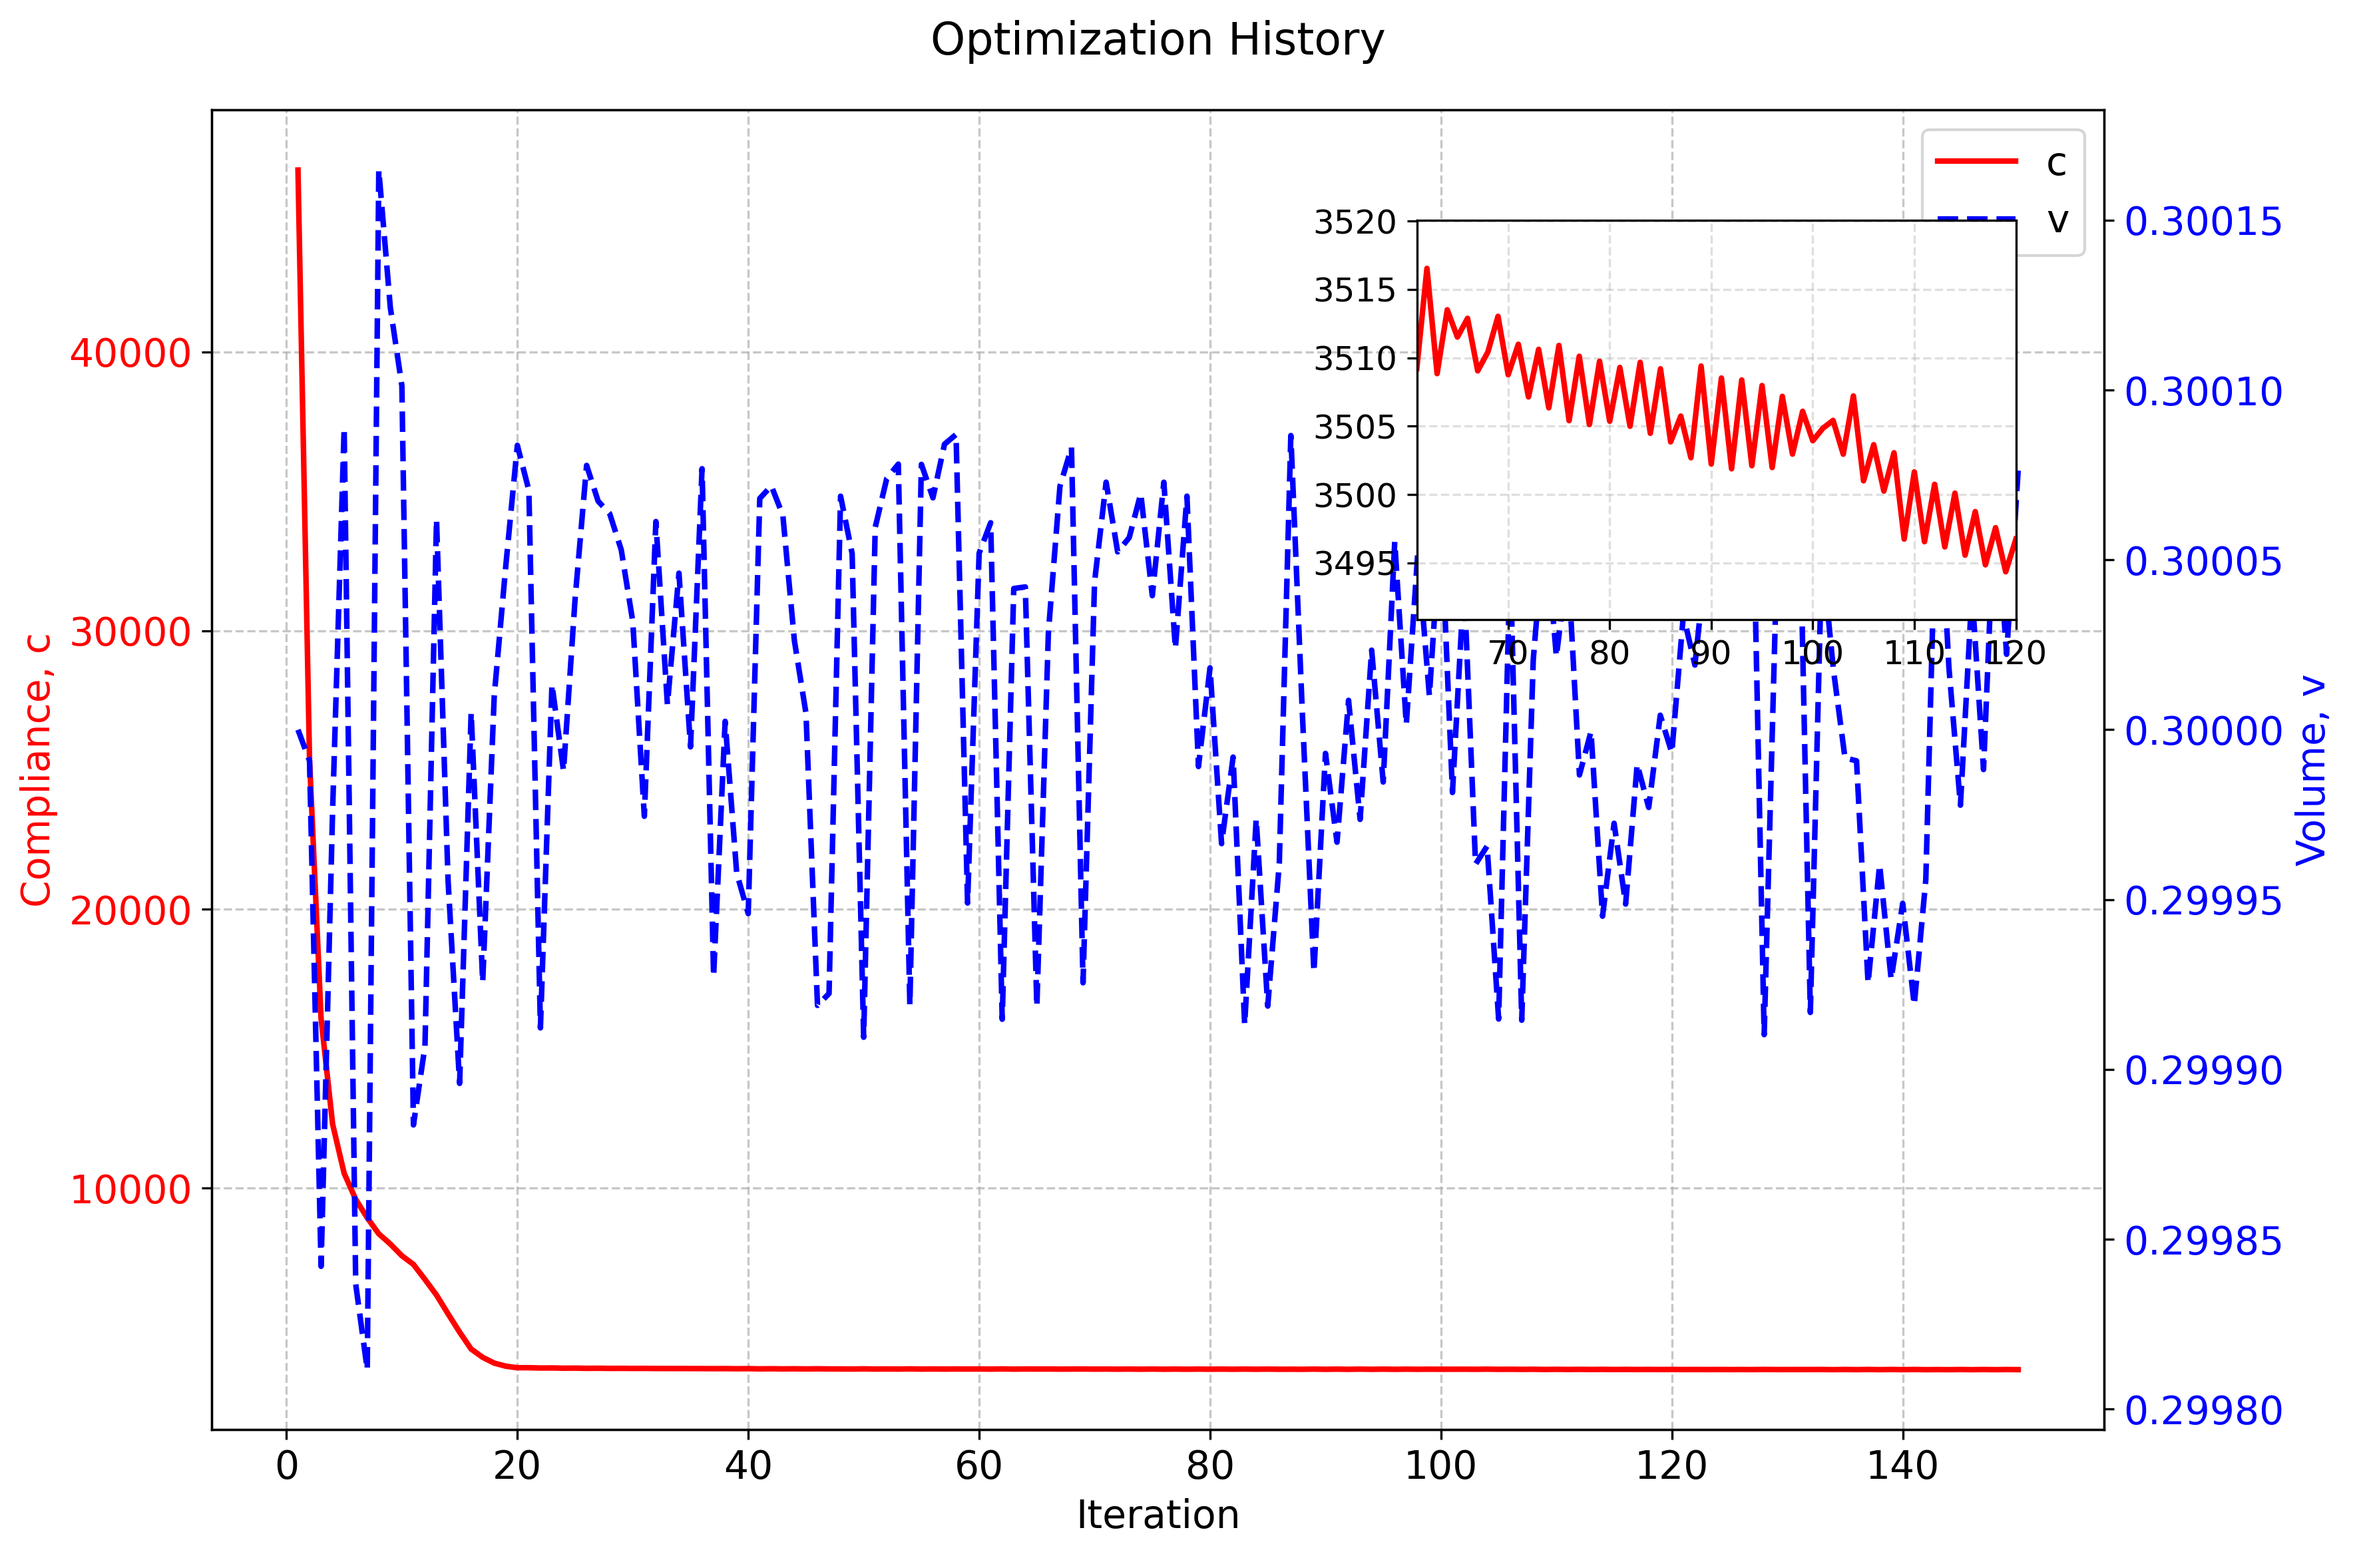
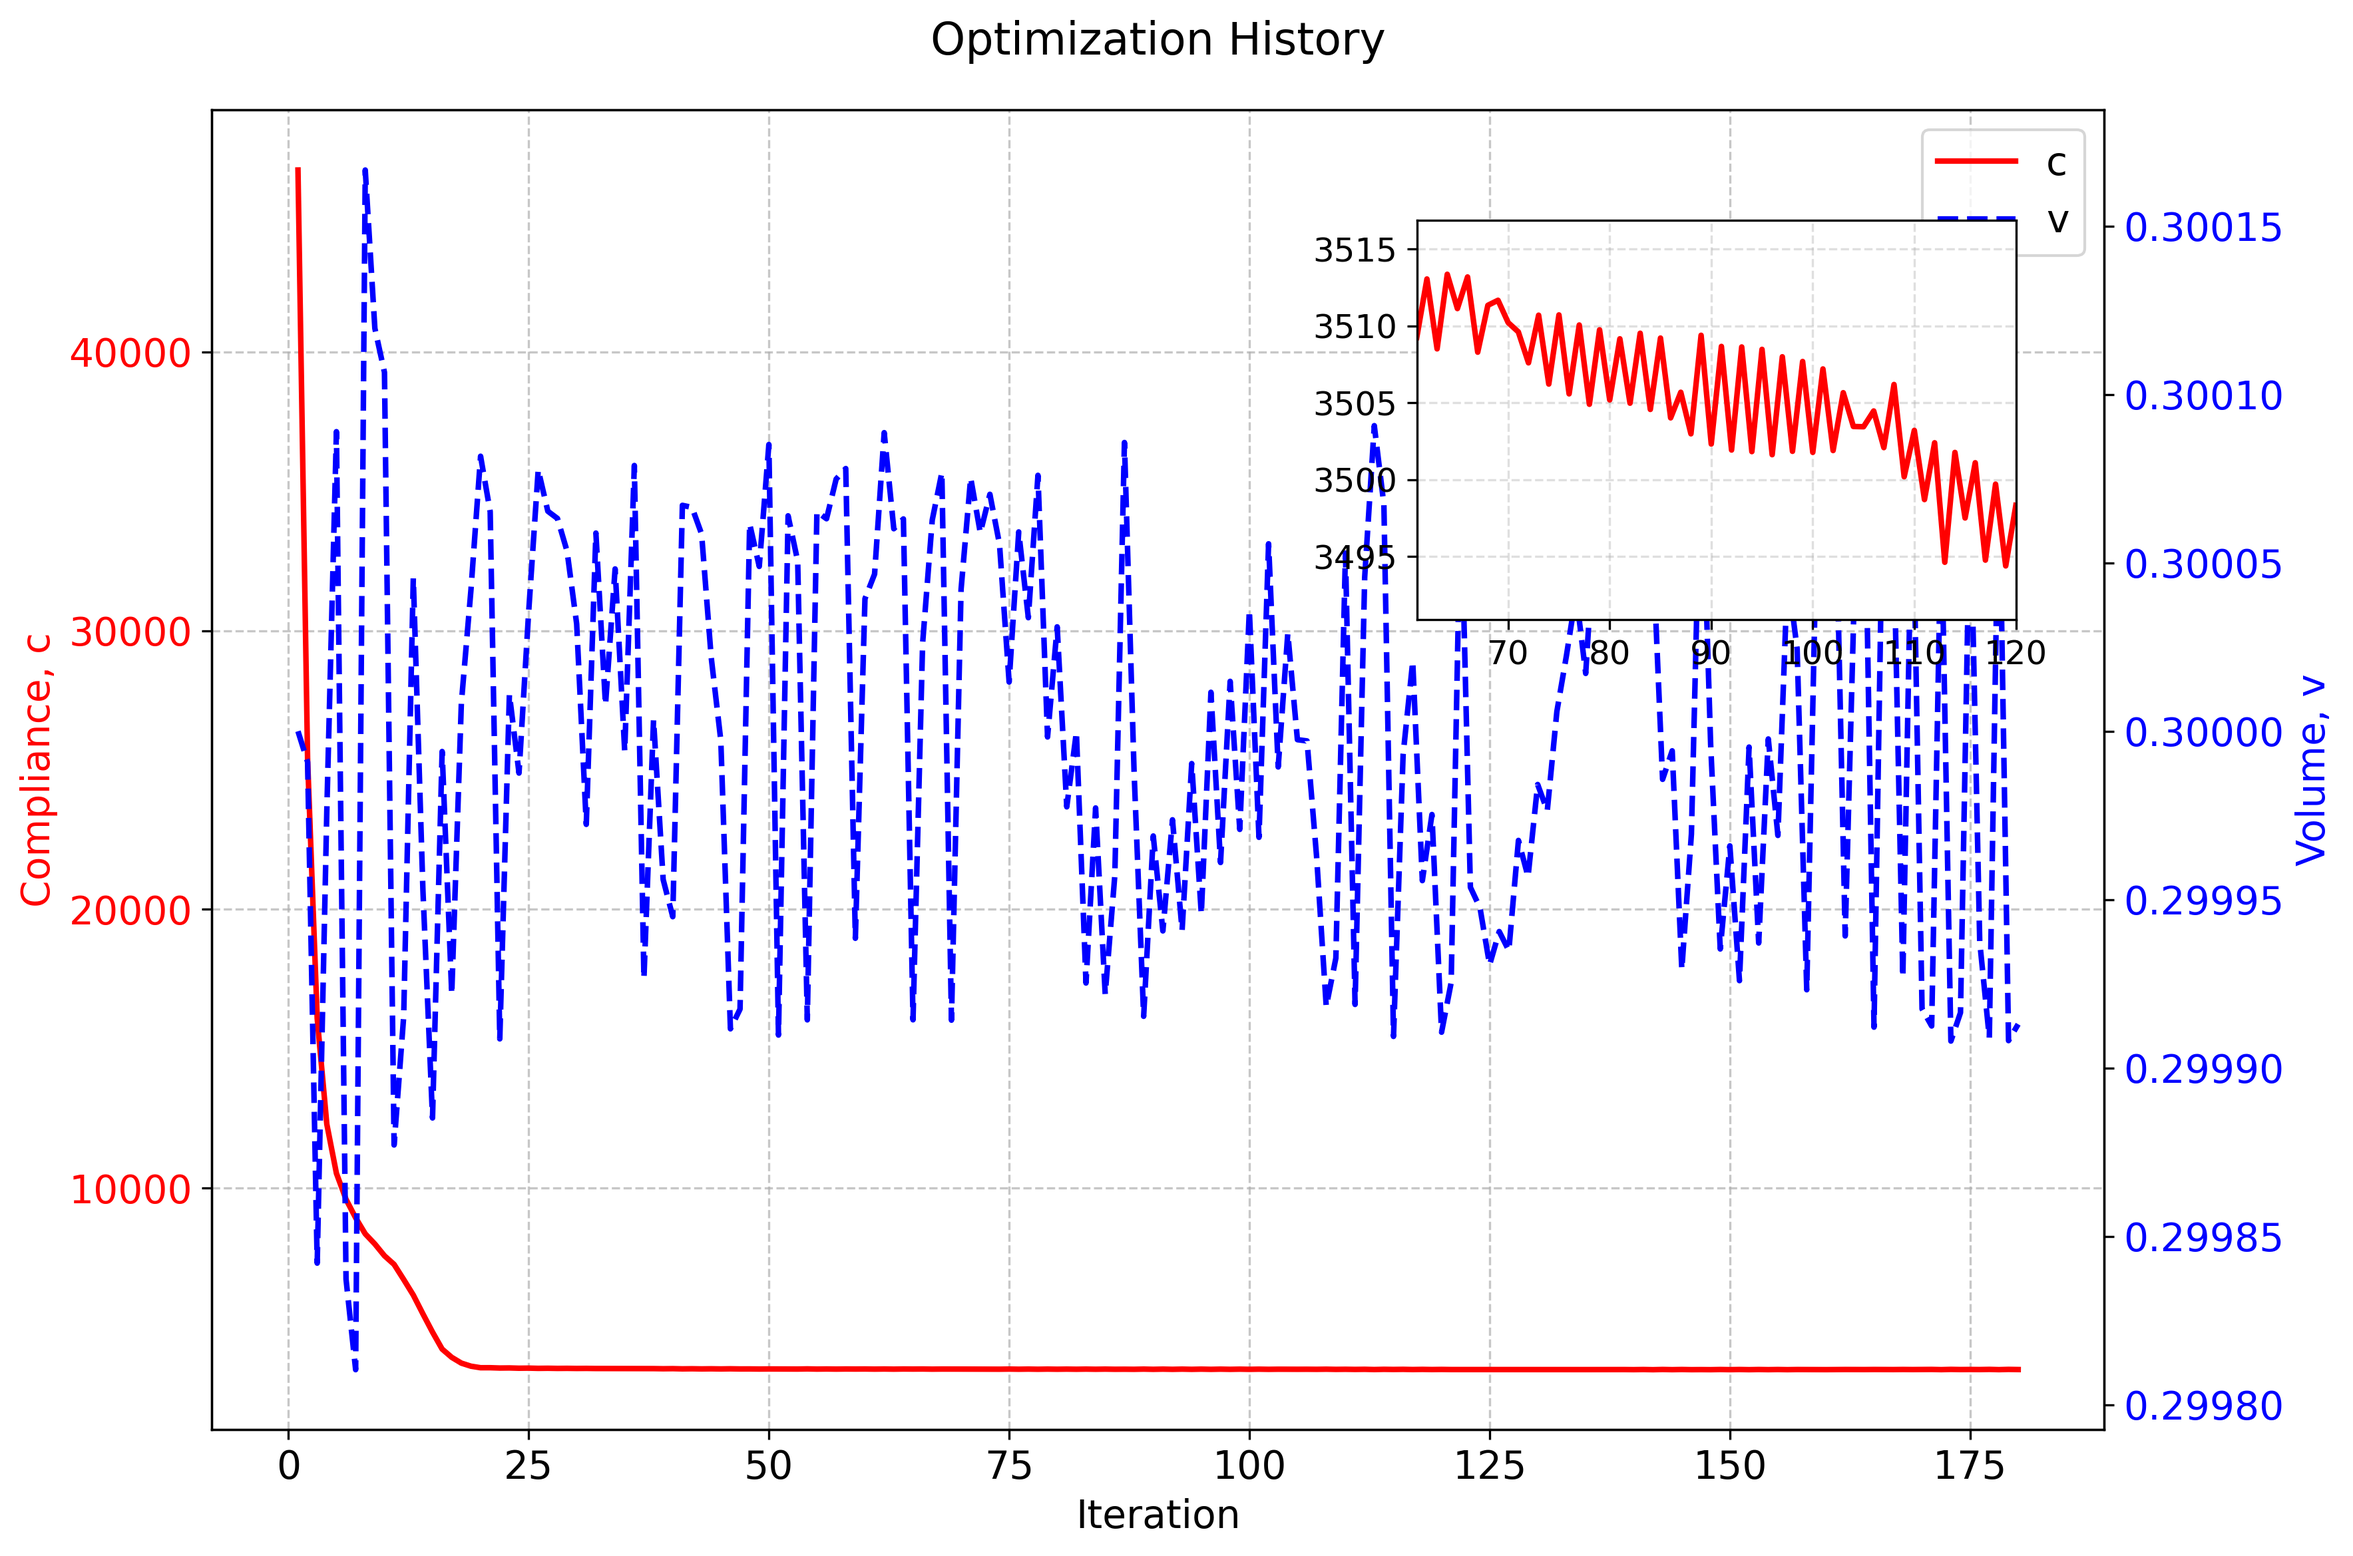
update

diff --git a/soptx/tests/test_cantilever_2d_wsl.py b/soptx/tests/test_cantilever_2d_wsl.py
@@ -1,4 +1,4 @@
-"""测试不同后端、优化器、滤波器、网格下的 3D 悬臂梁"""
+"""测试不同后端、优化器、滤波器、网格下的 2D 悬臂梁"""
 
 from dataclasses import dataclass
 from typing import Literal, Optional, Union, Dict, Any
@@ -7,29 +7,26 @@ from pathlib import Path
 from fealpy.backend import backend_manager as bm
 from fealpy.typing import TensorLike
 from fealpy.decorator import cartesian
-from fealpy.mesh import UniformMesh3d, TetrahedronMesh
+from fealpy.mesh import UniformMesh2d, TriangleMesh
 from fealpy.functionspace import LagrangeFESpace, TensorFunctionSpace
 
 from soptx.material import (
                             DensityBasedMaterialConfig,
                             DensityBasedMaterialInstance,
                         )
-from soptx.pde import Cantilever3dData1
+from soptx.pde import Cantilever2dData1, Cantilever2dData2
 from soptx.solver import (ElasticFEMSolver, AssemblyMethod)
 from soptx.filter import (SensitivityBasicFilter, 
                           DensityBasicFilter, 
                           HeavisideProjectionBasicFilter)
-from soptx.opt import (ComplianceObjective, ComplianceConfig,
-                       VolumeConstraint, VolumeConfig)
-
+from soptx.opt import ComplianceObjective, VolumeConstraint
 from soptx.opt import OCOptimizer, MMAOptimizer, save_optimization_history, plot_optimization_history
-
 @dataclass
 class TestConfig:
     """Configuration for topology optimization test cases."""
     backend: Literal['numpy', 'pytorch', 'jax']
     device: Literal['cpu', 'cuda']
-    pde_type: Literal['cantilever_3d_1']
+    pde_type: Literal['cantilever_2d_1', 'cantilever_2d_2']
 
     elastic_modulus: float
     poisson_ratio: float
@@ -37,20 +34,17 @@ class TestConfig:
 
     domain_length : float
     domain_width : float
-    domain_height : float
 
     load : float
 
     volume_fraction: float
     penalty_factor: float
 
-    mesh_type: Literal['uniform_mesh_3d', 'tetrahedron_mesh']
+    mesh_type: Literal['uniform_mesh_2d', 'triangle_mesh']
     nx: int
     ny: int
-    nz: int
     hx: float
     hy: float
-    hz: float
 
     p: int
     
@@ -78,40 +72,43 @@ def create_base_components(config: TestConfig):
     elif config.backend == 'jax':
         bm.set_backend('jax')
 
-    if config.pde_type == 'cantilever_3d_1':
-        pde = Cantilever3dData1(
+    if config.pde_type == 'cantilever_2d_2':
+        pde = Cantilever2dData2(
                     xmin=0, xmax=config.domain_length,
                     ymin=0, ymax=config.domain_width,
-                    zmin=0, zmax=config.domain_height,
                     T = config.load
                 )
-        if config.mesh_type == 'uniform_mesh_3d':
-            extent = [0, config.nx, 0, config.ny, 0, config.nz]
-            origin = [0.0, 0.0, 0.0]
-            mesh = UniformMesh3d(
-                        extent=extent, h=[config.hx, config.hy, config.hz], origin=origin,
-                        ipoints_ordering='zyx',
-                        device=config.device
+        if config.mesh_type == 'triangle_mesh':
+            mesh = TriangleMesh.from_box(box=pde.domain(), 
+                                        nx=config.nx, ny=config.ny)
+    elif config.pde_type == 'cantilever_2d_1':
+        pde = Cantilever2dData1(
+                    xmin=0, xmax=config.domain_length,
+                    ymin=0, ymax=config.domain_width,
+                    T = config.load
+                )
+        if config.mesh_type == 'uniform_mesh_2d':
+            extent = [0, config.nx, 0, config.ny]
+            origin = [0.0, 0.0]
+            mesh = UniformMesh2d(
+                        extent=extent, h=[config.hx, config.hy], origin=origin,
+                        ipoints_ordering='yx',
+                        device=config.device,
                     )
-        elif config.mesh_type == 'tetrahedron_mesh':
-            mesh = TetrahedronMesh.from_box(box=pde.domain(), 
-                                            nx=config.nx, ny=config.ny, nz=config.nz)
 
     GD = mesh.geo_dimension()
     
-    p = 1
+    p = config.p
     space_C = LagrangeFESpace(mesh=mesh, p=p, ctype='C')
     tensor_space_C = TensorFunctionSpace(space_C, (-1, GD))
-    print(f"CGDOF: {tensor_space_C.number_of_global_dofs()}")
     space_D = LagrangeFESpace(mesh=mesh, p=p-1, ctype='D')
-    print(f"DGDOF: {space_D.number_of_global_dofs()}")
     
     material_config = DensityBasedMaterialConfig(
                             elastic_modulus=config.elastic_modulus,            
                             minimal_modulus=config.minimal_modulus,         
                             poisson_ratio=config.poisson_ratio,            
-                            plane_assumption="3D",
-                            device=config.device,    
+                            plane_assumption="plane_stress", 
+                            device=config.device,      
                             interpolation_model="SIMP",    
                             penalty_factor=config.penalty_factor
                         )
@@ -131,22 +128,21 @@ def create_base_components(config: TestConfig):
     kwargs = bm.context(node)
     @cartesian
     def density_func(x: TensorLike):
-        val = config.volume_fraction * bm.ones(x.shape[0], **kwargs)
-        # val = bm.ones(x.shape[0], **kwargs)
+        # val = config.volume_fraction * bm.ones(x.shape[0], **kwargs)
+        val = bm.ones(x.shape[0], **kwargs)
         return val
     rho = space_D.interpolate(u=density_func)
 
-    obj_config = ComplianceConfig(diff_mode=config.diff_mode)
-    objective = ComplianceObjective(solver=solver, config=obj_config)
-    cons_config = VolumeConfig(diff_mode=config.diff_mode)
+    objective = ComplianceObjective(solver=solver)
     constraint = VolumeConstraint(solver=solver, 
-                                volume_fraction=config.volume_fraction,
-                                config=cons_config)
+                                volume_fraction=config.volume_fraction)
     
     return pde, rho, objective, constraint
 
 def run_basic_filter_test(config: TestConfig) -> Dict[str, Any]:
-    """测试 filter 类不同滤波器的正确性."""
+    """
+    测试 filter 类不同滤波器的正确性.
+    """
     pde, rho, objective, constraint = create_base_components(config)
     mesh = objective.solver.tensor_space.mesh
 
@@ -157,7 +153,7 @@ def run_basic_filter_test(config: TestConfig) -> Dict[str, Any]:
     elif config.filter_type == 'density':
         filter = DensityBasicFilter(mesh=mesh, rmin=config.filter_radius, domain=pde.domain())
     elif config.filter_type == 'heaviside':
-        filter = HeavisideProjectionBasicFilter(mesh=mesh, rmin=config.filter_radius, domain=pde.domain())   
+        filter = HeavisideProjectionBasicFilter(mesh=mesh, rmin=config.filter_radius, domain=pde.domain())  
 
     if config.optimizer_type == 'oc':
         optimizer = OCOptimizer(
@@ -215,49 +211,34 @@ def run_basic_filter_test(config: TestConfig) -> Dict[str, Any]:
         'mesh': mesh
     }
 
+
 if __name__ == "__main__":
     base_dir = '/home/heliang/soptx/soptx/vtu'
-    '''
-    参数来源论文: An efficient 3D topology optimization code written in Matlab
-    '''
-    # backend = 'numpy'
-    backend = 'pytorch'
-    # backend = 'jax'
-    # device = 'cpu'
-    device = 'cuda'
-    pde_type = 'cantilever_3d_1'
-    # mesh_type = 'tetrahedron_mesh'
-    mesh_type = 'uniform_mesh_3d'
+    # 参数来源论文: Efficient topology optimization in MATLAB using 88 lines of code
+    backend = 'numpy'
+    device = 'cpu'
+    pde_type = 'cantilever_2d_1'
     optimizer_type = 'oc'
     filter_type = 'sensitivity'
-    # nx, ny, nz = 60, 20, 4
-    # filter_radius = 1.5
-    nx, ny, nz = 120, 40, 8
-    filter_radius = 3.0
-    config_basic_filter = TestConfig(
-        backend=backend,
-        device=device,
-        pde_type=pde_type,
-        elastic_modulus=1, poisson_ratio=0.3, minimal_modulus=1e-9,
-        domain_length=nx, domain_width=ny, domain_height=nz,
-        load=-1,
-        volume_fraction=0.3,
-        penalty_factor=3.0,
-        mesh_type=mesh_type, nx=nx, ny=ny, nz=nz, hx=1, hy=1, hz=1,
-        p = 1,
-        assembly_method=AssemblyMethod.FAST,
-        # assembly_method=AssemblyMethod.STANDARD,
-        # assembly_method=AssemblyMethod.SYMBOLIC,
-        # solver_type='direct', solver_params={'solver_type': 'mumps'},
-        # solver_type='direct', solver_params={'solver_type': 'cupy'},
-        # solver_type='direct', solver_params={'solver_type': 'scipy'},
-        solver_type='cg', solver_params={'maxiter': 5000, 'atol': 1e-12, 'rtol': 1e-12},
-        diff_mode='manual',
-        # diff_mode='auto',
-        optimizer_type=optimizer_type, max_iterations=180, tolerance=0.01,
-        filter_type=filter_type, filter_radius=filter_radius,
-        save_dir=f'{base_dir}/{device}_{backend}_{pde_type}_{mesh_type}_{optimizer_type}_{filter_type}_{nx*ny*nz}',
-    )
-
-    result = run_basic_filter_test(config_basic_filter )
+    nx, ny = 160, 100
+    filter_radius = 6.0
+    config_sens_filter = TestConfig(
+            backend=backend,
+            device=device,
+            pde_type=pde_type,
+            elastic_modulus=1, poisson_ratio=0.3, minimal_modulus=1e-9,
+            domain_length=nx, domain_width=ny,
+            load=-1,
+            volume_fraction=0.4,
+            penalty_factor=3.0,
+            mesh_type='uniform_mesh_2d', nx=nx, ny=ny, hx=1, hy=1,
+            p = 1,
+            assembly_method=AssemblyMethod.FAST,
+            solver_type='direct', solver_params={'solver_type': 'mumps'},
+            diff_mode='manual',
+            optimizer_type=optimizer_type, max_iterations=200, tolerance=0.01,
+            filter_type=filter_type, filter_radius=filter_radius,
+            save_dir=f'{base_dir}/{backend}_{pde_type}_{optimizer_type}_{filter_type}_{nx*ny}',
+        )
+    result1 = run_basic_filter_test(config_sens_filter)
     
